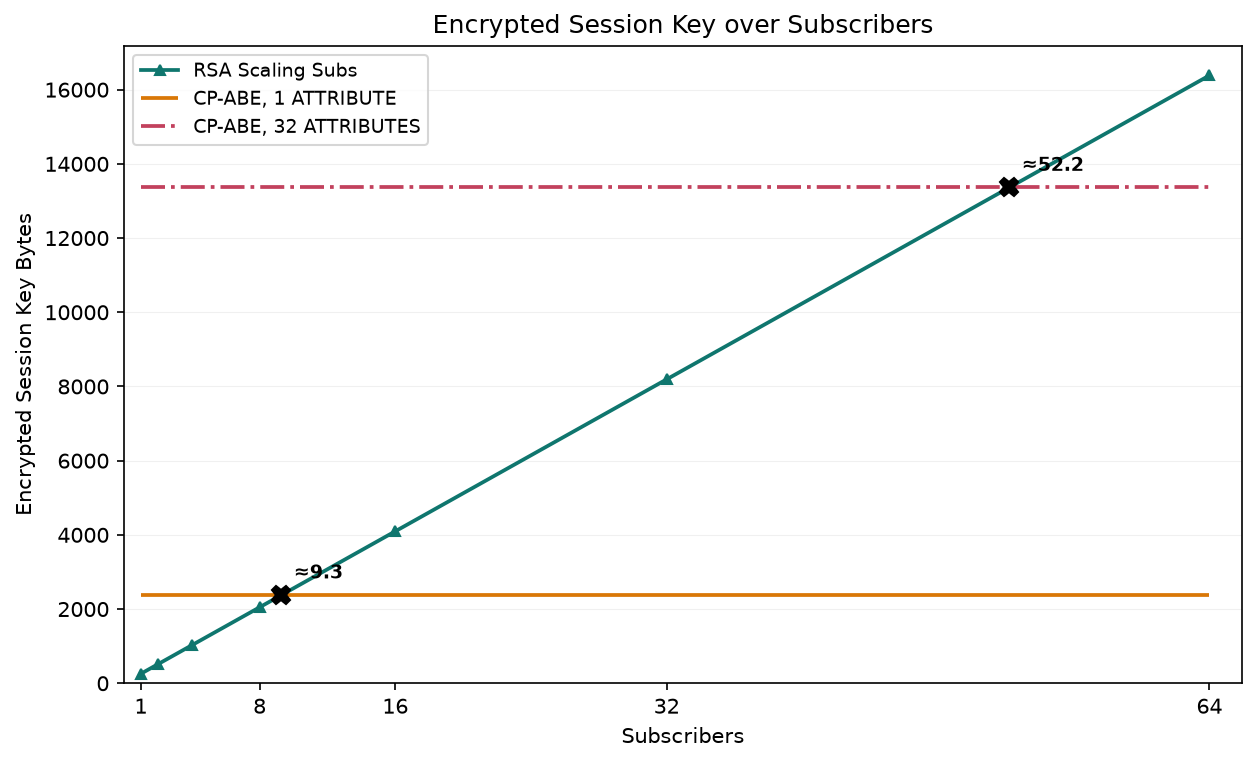
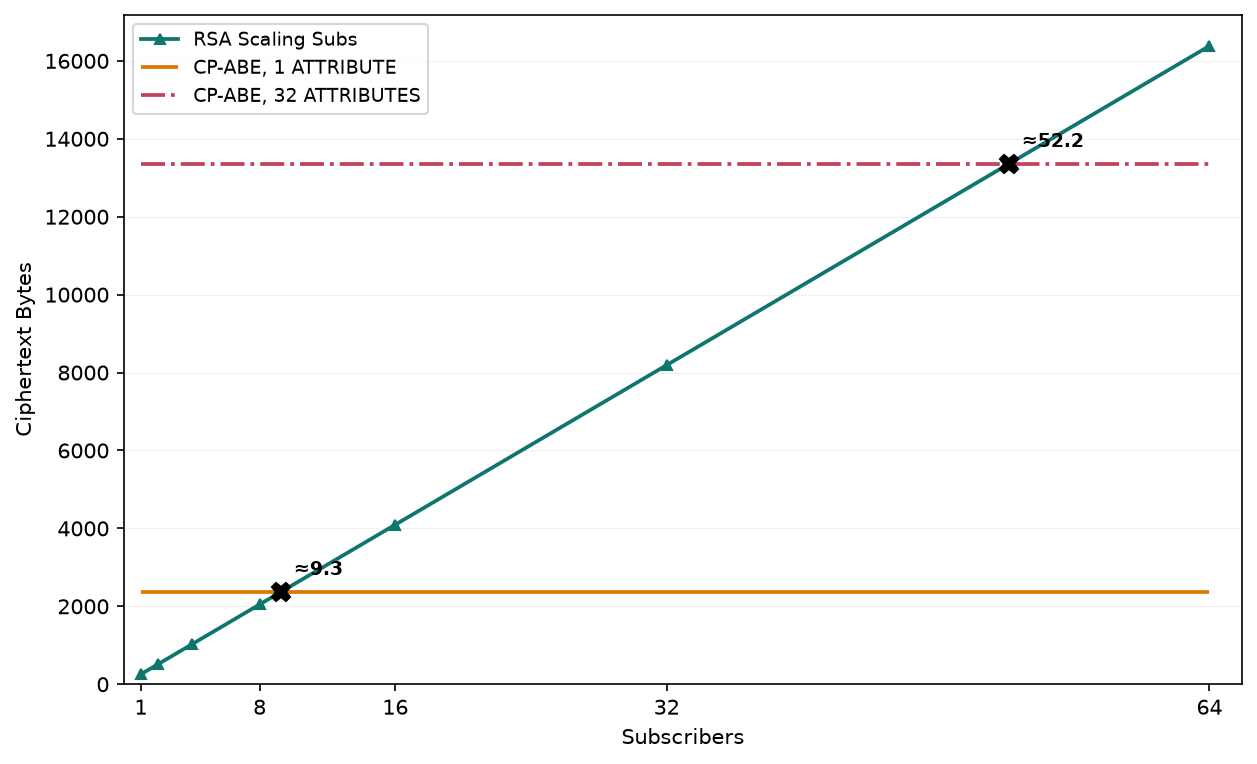
Added subplots

diff --git a/microbenchmark/python/template/attribute_key_scaling_template.html b/microbenchmark/python/template/attribute_key_scaling_template.html
@@ -699,8 +699,9 @@
                     <div class="stat-strip">
                         <span class="stat-chip"><strong>{{RsaSubscriberEncryptSlope}}</strong> ENCRYPT TIME /
                             SUBSCRIBER <span class="stat-chip-r2">R²={{RsaSubscriberEncryptRSquared}}</span></span>
-                        <span class="stat-chip"><strong>{{RsaSubscriberTotalCiphertextSlope}}</strong> CIPHERTEXT /
-                            SUBSCRIBER <span class="stat-chip-r2">(derived, exact)</span></span>
+                        <span class="stat-chip"><strong>{{RsaSubscriberTotalCiphertextSlope}}</strong> CIPHERTEXT
+                            (Total) /
+                            SUBSCRIBER</span>
                     </div>
                     <div class="fanout-card">
                         <div class="fanout-row">
@@ -757,7 +758,7 @@
                 <div class="comparison-row">
                     <article class="plot-card">
                         <div class="plot-copy">
-                            <h3>CP-ABE vs. RSA: Encrypted Key Size</h3>
+                            <h3>CP-ABE vs. RSA: Ciphertext Size</h3>
                         </div>
                         <div class="plot-frame">
                             <img src="{{BandwidthCrossoverPlot}}">

diff --git a/microbenchmark/results/attribute-key-scaling/report.html b/microbenchmark/results/attribute-key-scaling/report.html
@@ -699,8 +699,9 @@
                     <div class="stat-strip">
                         <span class="stat-chip"><strong>+31.26 ± 0.08 µs</strong> ENCRYPT TIME /
                             SUBSCRIBER <span class="stat-chip-r2">R²=0.999995</span></span>
-                        <span class="stat-chip"><strong>+256 B</strong> CIPHERTEXT /
-                            SUBSCRIBER <span class="stat-chip-r2">(derived, exact)</span></span>
+                        <span class="stat-chip"><strong>+256 B</strong> CIPHERTEXT
+                            (Total) /
+                            SUBSCRIBER</span>
                     </div>
                     <div class="fanout-card">
                         <div class="fanout-row">
@@ -757,7 +758,7 @@
                 <div class="comparison-row">
                     <article class="plot-card">
                         <div class="plot-copy">
-                            <h3>CP-ABE vs. RSA: Encrypted Key Size</h3>
+                            <h3>CP-ABE vs. RSA: Ciphertext Size</h3>
                         </div>
                         <div class="plot-frame">
                             <img src="bandwidth_crossover.png">

diff --git a/microbenchmark/python/src/attribute_key_scaling_report.py b/microbenchmark/python/src/attribute_key_scaling_report.py
@@ -4,6 +4,9 @@ matplotlib.use("Agg")
 
 import sys
 import matplotlib.pyplot as plt
+from matplotlib.axes import Axes
+from matplotlib.figure import Figure
+from matplotlib.gridspec import GridSpec
 from utils.statistics import GetStudentTCriticalValue95
 from utils.statistics import Mean
 from utils.statistics import MeanAndConfidenceInterval
@@ -261,14 +264,42 @@ def PlotSweep(
     figureTitle: str,
     pngFile: str,
     fixedDecryptCaseId: str | None = None,
+    splitKeygenLatency: bool = False,
 ) -> None:
 
-    figure, axes = plt.subplots(1, 2, figsize=(13, 5))
+    figure: Figure
+    latencyAxis: Axes
+    keygenLatencyAxis: Axes
+    sizeAxis: Axes
+    gridSpec: GridSpec
+
+    if splitKeygenLatency:
+        figure = plt.figure(figsize=(13, 7))
+
+        # Split the left side into two latency plots while sizes span both rows.
+        gridSpec = figure.add_gridspec(
+            2,
+            2,
+            width_ratios=[1.0, 1.0],
+            height_ratios=[1.0, 1.0],
+            hspace=0.34,
+        )
+
+        keygenLatencyAxis = figure.add_subplot(gridSpec[0, 0])
+        latencyAxis = figure.add_subplot(
+            gridSpec[1, 0],
+            sharex=keygenLatencyAxis,
+        )
+        sizeAxis = figure.add_subplot(gridSpec[:, 1])
+    else:
+        figure = plt.figure(figsize=(13, 5))
+        gridSpec = figure.add_gridspec(1, 2)
+
+        latencyAxis = figure.add_subplot(gridSpec[0, 0])
+        keygenLatencyAxis = latencyAxis
+        sizeAxis = figure.add_subplot(gridSpec[0, 1])
 
     figure.suptitle(figureTitle, fontsize=13)
-
-    latencyAxis = axes[0]
-    sizeAxis = axes[1]
 
     latencyMean: float
     latencyCI: float
@@ -300,7 +331,13 @@ def PlotSweep(
             means.append(latencyMean / 1000.0)
             ciHalfs.append(latencyCI / 1000.0)
 
-        latencyAxis.errorbar(
+        operationAxis: Axes = latencyAxis
+
+        # Draw key generation in the separate upper panel when enabled.
+        if splitKeygenLatency and operation == "keygen":
+            operationAxis = keygenLatencyAxis
+
+        operationAxis.errorbar(
             values,
             means,
             yerr=ciHalfs,
@@ -312,13 +349,41 @@ def PlotSweep(
             capsize=4,
         )
 
-    latencyAxis.set_title("Latency", fontsize=11)
+    if splitKeygenLatency:
+        keygenLatencyAxis.set_title("Key Generation Latency", fontsize=11)
+        keygenLatencyAxis.set_ylabel("Latency (µs) ± 95% CI")
+        keygenLatencyAxis.set_ylim(bottom=0)
+        keygenLatencyAxis.set_xticks(sweepValues)
+
+        # The lower latency plot already displays the shared key-size labels.
+        keygenLatencyAxis.tick_params(axis="x", labelbottom=False)
+
+        keygenLatencyAxis.grid(
+            True,
+            axis="y",
+            linestyle="-",
+            linewidth=0.5,
+            alpha=0.18,
+        )
+        keygenLatencyAxis.legend(fontsize=10)
+
+        latencyAxis.set_title("Encrypt + Decrypt Latency", fontsize=11)
+    else:
+        latencyAxis.set_title("Latency", fontsize=11)
+
     latencyAxis.set_ylabel("Latency (µs) ± 95% CI")
     latencyAxis.set_ylim(bottom=0)
-    # Real numerical spacing, so horizontal distance represents the actual sweep increase.
+
+    # Real numerical spacing represents the actual sweep increase.
     latencyAxis.set_xticks(sweepValues)
     latencyAxis.set_xlabel(xLabel)
-    latencyAxis.grid(True, axis="y", linestyle="-", linewidth=0.5, alpha=0.18)
+    latencyAxis.grid(
+        True,
+        axis="y",
+        linestyle="-",
+        linewidth=0.5,
+        alpha=0.18,
+    )
     latencyAxis.legend(fontsize=10)
 
     # Right panel: the interpretable memory story — bytes on the wire & bytes stored on device.
@@ -371,9 +436,9 @@ def PlotSweep(
         sizeAxis.plot(
             totalCiphertextValues,
             totalCiphertextSizes,
-            label="Ciphertext (Total)",
+            label="Ciphertext (TOTAL)",
             color=TOTAL_CIPHERTEXT_COLOR,
-            marker="^",
+            marker="o",
             linewidth=1.8,
             markersize=5,
         )
@@ -853,9 +918,8 @@ def PlotCrossover(summary: CrossoverSummary) -> None:
 
     axis.set_xticks(linearTickValues)
     axis.set_xlim(0.0, float(xLimit) * 1.03)
-    axis.set_title("Encrypted Session Key over Subscribers", fontsize=12)
     axis.set_xlabel("Subscribers")
-    axis.set_ylabel("Encrypted Session Key Bytes")
+    axis.set_ylabel("Ciphertext Bytes")
     axis.set_ylim(bottom=0.0)
     axis.grid(True, axis="y", linestyle="-", linewidth=0.5, alpha=0.18)
     axis.legend(fontsize=9, loc="upper left")
@@ -1707,6 +1771,7 @@ def Main() -> None:
         "RSA Key Bits",
         "RSA Scaling with Key Size (1 Subscriber)",
         RSA_KEY_BITS_PNG_FILE,
+        splitKeygenLatency=True,
     )
 
     # Compute the measured bandwidth crossover used by the plot and explanation.
